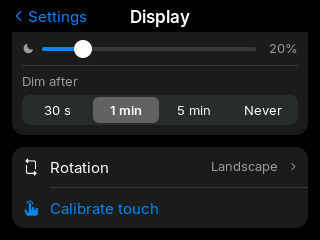
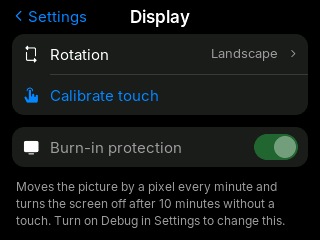
P24: docs sweep; fenix erase; capture and serial tools read without timeouts

diff --git a/crates/fenix-cli/src/main.rs b/crates/fenix-cli/src/main.rs
@@ -5,14 +5,19 @@
 //! fenix logs [secs]                print LOG / STATS / BOARD_STATE (default 30 s)
 //! fenix time                       send TIME_SET (now, UTC)
 //! fenix reboot                     ask the board to restart
+//! fenix tap <x> <y>                remote touch (screen coordinates)
+//! fenix swipe <x1> <y1> <x2> <y2>  remote drag
 //! fenix shot <out.png> [secs]      stream the screen for a while, save the last frame
+//! fenix bench [secs] [nostream]    link throughput
 //! fenix list                       installed apps
-//! fenix install <file.fxp> <id> <version>   push a board package
+//! fenix install <file.fxp>         push a board package
 //! fenix remove <id>                remove an app
-//! fenix open <id> | close          (debug) ask nothing; apps open on the board
+//! fenix set <file.fxp> <bind>=<value>...   set bindings like an app's PC half
+//! fenix host <id> on|off           tell the board an app's PC half runs or stopped
 //! fenix soak <minutes>             ping + stats soak, counts errors and reconnects
 //! fenix flash [dir] [--erase]      write the bundled firmware (default app/src-tauri/resources/
 //!                                  firmware, from tools/bundle_firmware.py); quit the app first
+//! fenix erase <offset> <size>      erase a flash region (0x9000 0x6000: settings); quit the app
 //! Common option: --port COMx (default: auto-detect).
 
 use std::path::Path;
@@ -98,13 +103,17 @@ fn main() {
         },
         "soak" => soak(opts, arg_u64(&args, 1, 60)),
         "flash" => flash(opts, &args[1..]),
+        "erase" => match (args.get(1).and_then(|v| num(v)), args.get(2).and_then(|v| num(v))) {
+            (Some(off), Some(size)) => erase(opts, off, size),
+            _ => usage(),
+        },
         _ => usage(),
     };
     std::process::exit(code);
 }
 
 fn usage() -> i32 {
-    eprintln!("usage: fenix ports|hello|logs [s]|time|reboot|tap <x> <y>|swipe <x1> <y1> <x2> <y2>|shot <png> [s]|bench [s] [nostream]|list|install <file.fxp>|remove <id>|set <file.fxp> <bind>=<value>...|host <id> on|off|soak <min>|flash [dir] [--erase] [--port COMx]");
+    eprintln!("usage: fenix ports|hello|logs [s]|time|reboot|tap <x> <y>|swipe <x1> <y1> <x2> <y2>|shot <png> [s]|bench [s] [nostream]|list|install <file.fxp>|remove <id>|set <file.fxp> <bind>=<value>...|host <id> on|off|soak <min>|flash [dir] [--erase]|erase <offset> <size> [--port COMx]");
     2
 }
 
@@ -116,10 +125,7 @@ fn flash(opts: LinkOptions, args: &[String]) -> i32 {
         .iter()
         .find(|a| !a.starts_with("--"))
         .map_or_else(|| Path::new("app/src-tauri/resources/firmware").to_path_buf(), Into::into);
-    let Some(port) = opts
-        .port
-        .or_else(|| fenix_link::find_board_ports().into_iter().next())
-    else {
+    let Some(port) = board_port(&opts) else {
         eprintln!("no board found (use --port COMx)");
         return 1;
     };
@@ -142,6 +148,37 @@ fn flash(opts: LinkOptions, args: &[String]) -> i32 {
     match r {
         Ok(()) => {
             println!("done; the board restarts");
+            0
+        }
+        Err(e) => {
+            eprintln!("{e}");
+            1
+        }
+    }
+}
+
+/// A number in decimal or 0x hex.
+fn num(s: &str) -> Option<u32> {
+    match s.strip_prefix("0x") {
+        Some(h) => u32::from_str_radix(h, 16).ok(),
+        None => s.parse().ok(),
+    }
+}
+
+fn board_port(opts: &LinkOptions) -> Option<String> {
+    opts.port
+        .clone()
+        .or_else(|| fenix_link::find_board_ports().into_iter().next())
+}
+
+fn erase(opts: LinkOptions, offset: u32, size: u32) -> i32 {
+    let Some(port) = board_port(&opts) else {
+        eprintln!("no board found (use --port COMx)");
+        return 1;
+    };
+    match fenix_flash::erase(&port, offset, size) {
+        Ok(()) => {
+            println!("erased {size:#x} bytes at {offset:#x}; the board restarts");
             0
         }
         Err(e) => {

diff --git a/tools/spike_s3_baud.py b/tools/spike_s3_baud.py
@@ -12,7 +12,23 @@ SECS = float(sys.argv[1]) if len(sys.argv) > 1 else 180
 BAUDS = [460800, 921600, 1500000, 2000000]
 
 s = serial.Serial()
-s.port, s.baudrate, s.timeout = "COM9", 460800, 0.5
+# Timeout 0: reads never wait in the driver, `read` below polls instead. A read timeout takes the
+# CH340 driver's crash path (docs/board-info.md, P23).
+s.port, s.baudrate, s.timeout = "COM9", 460800, 0
+
+
+def read(n, wait=0.5, until=None):
+    out = b""
+    end = time.time() + wait
+    while len(out) < n and time.time() < end and not (until and out.endswith(until)):
+        b = s.read(n - len(out))
+        if b:
+            out += b
+        else:
+            time.sleep(0.002)
+    return out
+
+
 s.dtr = False
 s.rts = False
 s.open()
@@ -23,7 +39,7 @@ for baud in BAUDS:
     if baud != cur:
         s.write(f"BAUD {baud}\n".encode())
         s.flush()
-        ok = s.read_until(b"OK\n", 16)
+        ok = read(16, until=b"OK\n")
         time.sleep(0.05)
         s.baudrate = baud
         cur = baud
@@ -38,7 +54,7 @@ for baud in BAUDS:
         body = os.urandom(996)
         blk = body + zlib.crc32(body).to_bytes(4, "little")
         s.write(blk)
-        got = s.read(1000)
+        got = read(1000)
         if len(got) == 1000 and zlib.crc32(got[:996]).to_bytes(4, "little") == got[996:]:
             good += 1
         else:

diff --git a/tools/serial_read.py b/tools/serial_read.py
@@ -3,6 +3,8 @@
 Usage: python tools/serial_read.py [seconds] [--reset] [--port COM9] [--baud 115200]
 --reset pulses EN through RTS (the CYD auto-reset circuit) before reading.
 The port is opened with DTR and RTS released, so opening alone does not reset the board.
+Reads never wait (timeout 0) and the loop polls: a read timeout takes the CH340 driver's crash
+path (docs/board-info.md, P23).
 """
 import argparse, sys, time
 
@@ -16,7 +18,7 @@ ap.add_argument("--baud", type=int, default=115200)
 a = ap.parse_args()
 
 s = serial.Serial()
-s.port, s.baudrate, s.timeout = a.port, a.baud, 0.2
+s.port, s.baudrate, s.timeout = a.port, a.baud, 0
 s.dtr = False
 s.rts = False
 s.open()
@@ -30,4 +32,6 @@ while time.time() < end:
     if data:
         sys.stdout.write(data.decode("utf-8", "replace"))
         sys.stdout.flush()
+    else:
+        time.sleep(0.01)
 s.close()

diff --git a/crates/fenix-flash/src/lib.rs b/crates/fenix-flash/src/lib.rs
@@ -222,6 +222,18 @@ fn hex(b: &[u8]) -> String {
     b.iter().map(|x| format!("{x:02x}")).collect()
 }
 
+/// Erase `size` bytes at `offset` (e.g. the settings partition), then reset the board.
+pub fn erase(port: &str, offset: u32, size: u32) -> Result<(), String> {
+    let mut flasher = connect(port)?;
+    flasher
+        .erase_region(offset, size)
+        .map_err(|e| format!("erasing failed: {e}"))?;
+    flasher
+        .connection()
+        .reset_after(true, Chip::Esp32)
+        .map_err(|e| format!("reset failed: {e}"))
+}
+
 // espflash wants segment lengths in whole 4-byte words.
 fn padded(d: &[u8]) -> Vec<u8> {
     let mut v = d.to_vec();

diff --git a/docs/toolchain.md b/docs/toolchain.md
@@ -12,7 +12,7 @@ Tools installed on 2026-10-28 (Windows 11); libraries pinned for fenixOS on 2026
 | Rust | 1.99.1 | rustup, MSVC target |
 | Node / pnpm | 24.13.1 / 12.15.0 | pnpm via `npm i -g pnpm` |
 | MSVC | VS 2022 Build Tools | C++ protocol host test, board simulator |
-| esptool | 5.6.0 | pip (system Python 3.14), for reads/backups |
+| esptool | 5.6.0 | pip (system Python 3.14), for reads/backups only: its read timeouts take the CH340 driver's crash path (P23); flash and erase with `fenix flash` / `fenix erase` |
 | Python | 3.14 | `tools/*.py` |
 
 ## Pinned libraries
@@ -40,13 +40,13 @@ Tools installed on 2026-10-28 (Windows 11); libraries pinned for fenixOS on 2026
 - Firmware: `pwsh -NoProfile -File board/idf.ps1 build` (also `monitor`, `size`; not `flash`, see below). First time: `idf.ps1 set-target esp32`.
 - Rust tests: `cargo test --workspace`
 - C++ protocol test (MSVC): `pwsh -NoProfile -File board/components/fenix_proto/test/run.ps1` (checks `proto/vectors.txt`)
-- Spikes: `pwsh -NoProfile -File board/idf.ps1 -C spikes/<name> -B spikes/<name>/build -p COM9 -b 460800 build flash`, then `python tools/serial_read.py 30 --reset`
+- Spikes: `pwsh -NoProfile -File board/idf.ps1 -C spikes/<name> -B spikes/<name>/build -p COM9 -b 460800 build flash`, then `python tools/serial_read.py 30 --reset` (reads without a timeout since P23). Spike flashing still runs esptool, the CH340 crash path: only when a spike is really needed
 - Board fonts: `python tools/gen_fonts.py` (Inter + Phosphor via `lv_font_conv`)
 - Version check / sync: `python tools/version.py --check` / `python tools/version.py`
 - Design tokens: `python tools/gen_tokens.py` (writes `board/components/fenix_ui/include/fenix_tokens.h` and `app/src/lib/tokens.css`; `--check` in CI)
 - Firmware to the board: build, then `python tools/bundle_firmware.py`, quit the app, then `cargo run -q -p fenix-cli --release -- flash` (or `target/release/fenix.exe flash`). Corrected (P23): `idf.ps1 flash` runs esptool, whose read timeouts take the CH340 driver's crash path (`docs/board-info.md`); `fenix flash` uses the app's flasher (espflash on the patched serialport), writes only changed regions and resets the board. `--erase` wipes the whole flash first (settings and apps too). Spikes still flash with `idf.ps1` (their own images)
 - Dev CLI (`cargo build -p fenix-cli`, then `target/debug/fenix.exe`): `ports`, `hello`, `logs [s]`, `time`, `reboot`, `tap <x> <y>`, `swipe <x1> <y1> <x2> <y2>`, `shot <png> [s]`, `bench [s] [nostream]` (slide fps, stream throughput), `list`, `install`, `remove`, `soak <min>`; `--port COMx`
-- Board screenshots: `bash tools/capture_screens.sh <dir>` erases the board's settings (NVS), installs `tools/sample-app`, taps through every system screen and the sample app, saves PNGs, and removes the sample again. Golden copies: `docs/screens/board/`
+- Board screenshots: `bash tools/capture_screens.sh <dir>` (PC app closed) erases the board's settings (NVS, with `fenix erase`; touch calibration goes too), installs `tools/sample-app`, taps through every system screen and the sample app, saves PNGs, and removes the sample again. Golden copies: `docs/screens/board/`
 - Board simulator (`board/sim`, no board needed): the real `fenix_ui` + `fenix_apps` + `fenix_pkg` code and LVGL 9.5.0 built for Windows with MSVC, on stub IDF headers, `fx::hal` on a framebuffer and `fx::sys` with settings in memory, a clock fixed at Thursday 2026-10-29 08:35 (plus virtual time) and an app store in a folder of `.fxp` files. LVGL gets the board's own Kconfig values from `board/sim/lv_kconfig.h` (`python tools/sim_config.py` after a firmware build; `--check` runs in the board CI job). Time is virtual: it moves only when the script waits or the code calls `vTaskDelay`, so every run gives the same pixels.
   - Build: `pwsh board/sim/build.ps1` (vcvars64 + CMake + Ninja; output `board/sim/build/fenix_sim.exe`). LVGL comes from `board/managed_components` after a firmware build, else CMake fetches tag v9.5.0
   - Headless: `fenix_sim run <script> --out <dir> [--store <dir>]`. Script verbs (one per line, `#` comments): `tap x y`, `swipe x1 y1 x2 y2`, `wait ms`, `shot name`, `install file.fxp`, `remove id`, `set id name=value...`, `host id on|off`, `stream on fps|off`, `connect`, `disconnect`. Taps and swipes match `fenix tap`/`swipe` timing. It starts connected, with default settings and an empty store

diff --git a/README.md b/README.md
@@ -2,11 +2,11 @@
 
 A small operating system for the ESP32-2432S028R ("Cheap Yellow Display", 2.8" 320×240 touch screen), plus its companion app for Windows. Both share one version number.
 
-- **Board:** C++17 on ESP-IDF v5.5.5, LVGL 9 + LovyanGFX. Boot screen, a home screen with time and date, three system apps (Settings, Session, Stream), and apps installed from the PC.
+- **Board:** C++17 on ESP-IDF v5.5.5, LVGL 9 + LovyanGFX. Boot screen, a home screen with time and date, three system apps (Settings, Session, Stream), apps installed from the PC, and burn-in protection for the LCD.
 - **PC app:** Rust + Tauri 2 + Svelte 5. Lives in the tray, finds the board over USB, installs and switches apps, mirrors the board's screen, keeps the board's firmware and time in step.
 - **Design:** Apple-style dark theme (`DESIGN.md`), Inter and Phosphor icons.
 
-Status: **v0.1.0.** Plan: `docs/PLAN.md`; progress: `tasks.md`.
+Status: **v0.1.3.** Plan: `docs/PLAN.md`; progress: `tasks.md`.
 
 <p>
   <img src="docs/screens/board/home.png" width="320" alt="Home screen with the time, date and app tiles">
@@ -17,7 +17,7 @@ Status: **v0.1.0.** Plan: `docs/PLAN.md`; progress: `tasks.md`.
 ## Install
 
 1. Download `fenixOS_<version>_x64-setup.exe` from the [latest release](https://github.com/tariqaq/fenixOS/releases/latest) and run it. It installs for your user only, so Windows does not ask for admin rights.
-2. The board's USB chip is a CH340. Windows usually installs its driver by itself; if the board does not show up as a COM port, install WCH's CH341SER driver. Use a current CH341SER. Both the 2011 driver and the current one (4.0.2026.2) can crash Windows when a program reads the port with a timeout; fenixOS after v0.1.0 reads without one. Do not use fenixOS v0.1.0 on Windows.
+2. The board's USB chip is a CH340. Windows usually installs its driver by itself; if the board does not show up as a COM port, install WCH's CH341SER driver. Use a current CH341SER. Both the 2011 driver and the current one (4.0.2026.2) can crash Windows when a program reads the port with a timeout. fenixOS reads without one since v0.1.1, and flashes the board without one since v0.1.4. Do not use fenixOS v0.1.0 on Windows, and avoid other serial tools (terminals, monitors, esptool) on this board.
 3. Start fenixOS. On the first run a welcome window asks you to plug in the board. A board without fenixOS gets it installed after one confirm (this erases what was on it); a board on an older fenixOS is offered the update. Then the dashboard opens.
 
 fenixOS lives in the tray and starts with Windows if you leave that on (Settings). It keeps the board's clock and firmware in step, and updates itself from the GitHub releases (Settings > Updates).
@@ -48,17 +48,14 @@ Versions and every command are in `docs/toolchain.md`. In short:
 | `VERSION` | The only version source (lockstep SemVer) |
 | `board/` | ESP-IDF firmware project |
 | `app/` | Tauri + Svelte PC app |
-| `crates/` | Shared Rust crates (protocol, link, packages, SDK, dev CLI) |
+| `crates/` | Shared Rust crates (protocol, link, packages, SDK, flasher, dev CLI) |
+| `third_party/` | serialport, patched so reads never arm the CH340 driver's crashing timeout |
 | `proto/` | Link protocol spec and test vectors |
 | `registry/` | Manifests of installable apps (each app lives in its own repo) |
 | `design/` | Design tokens and font sources |
 | `tools/` | Generators and helper scripts |
 | `docs/` | Plan, decisions, hardware facts, toolchain; `docs/legacy/` holds the FenixDeck PoC docs |
 | `pics/` | Board photos and their analysis |
-
-## Build
-
-See `docs/toolchain.md` for versions and commands. Clone with submodules: `git clone --recursive https://github.com/tariqaq/fenixOS`.
 
 ## Licence
 

diff --git a/ideas.md b/ideas.md
@@ -117,7 +117,7 @@ These come from the hardware facts in `docs/POC-WRITEUP.md` and from research. T
   - Declarative packages: layout, assets and bindings that the firmware's UI engine renders, with the logic on the PC. Smallest and safest.
   - A small script VM: Berry starts at ~4–10 KB RAM and is used on the ESP32 by Tasmota. Lua and wasm3 are heavier, MicroPython heavier still.
   - Native ELF loading: Espressif's `elf_loader` component. The code runs from scarce internal RAM, so it is the most complex option.
-- **C4. "Shut down" can't cut power.** The board has no power switch, and USB keeps it powered. Shut down = backlight off + deep sleep, woken by a touch (touch IRQ on GPIO36 can wake from deep sleep) or by the RST button. Reboot = software restart.
+- **C4. "Shut down" can't cut power.** The board has no power switch, and USB keeps it powered. Shut down = backlight off + deep sleep (corrected, P19: light sleep, see `docs/board-info.md`), woken by a touch (touch IRQ on GPIO36 can wake from deep sleep) or by the RST button. Reboot = software restart.
 - **C5. No vsync.** The LCD's TE pin is not wired, so tearing can only be minimized: partial redraws by DMA and capped fps. A full-screen push takes ~22 ms (about 45 fps max). Full-screen effects such as cross-fades redraw the whole screen, so they run slower than small animations.
 - **C6. Apple's fonts and SF Symbols can't be used.** Apple's license limits SF fonts to Apple platforms. It does not allow embedding them in a non-Apple app or firmware, nor even mock-ups of software for non-Apple systems. Use **Inter** (Google Fonts, OFL, designed in a similar spirit to SF Pro) or a similar open font. Icons need an open set too (for example Lucide, Phosphor, Material Symbols Rounded).
 - **C7. Private repo vs. central registry** (resolved: the repo is now public). This repo was private, so the PC app cannot read the registry from it without a GitHub token. Options: a token in the PC app, a separate public registry repo, or making this repo public.
@@ -153,7 +153,7 @@ Details and the options offered: `docs/decisions.md`.
 - Navigation: iOS-style **top nav bar** (`< Home`, centred title).
 - Time (C1): **PC sync on connect** + hourly, **kept in RTC memory across soft reboot / deep sleep**, Wi-Fi NTP later; no manual set. `--:--` until the first sync after power-up.
 - Stream (C2): **changed regions, compressed** (LVGL flush rects, RLE/LZ); ~10 fps in normal use.
-- Shut down (C4): **deep sleep, tap to wake** (touch IRQ GPIO36) or RST.
+- Shut down (C4): **deep sleep, tap to wake** (touch IRQ GPIO36) or RST. Corrected (P19): light sleep, then a restart on the tap.
 - PC app: **Rust + Tauri 2 + Svelte 5**.
 - PC half of host apps (C10): **sidecar process** per app, started only while switched on, local pipe + typed API; trust via registry, pinned versions, checksums.
 - Registry (C7): **this repo is public**; the PC app reads the registry with no auth. Vendor files, flash images and the packing slip were scrubbed from history first.

diff --git a/tasks.md b/tasks.md
@@ -1,6 +1,6 @@
 # fenixOS tasks
 
-New project: an "OS of sorts" for the ESP32-2432S028R (CYD). Hand-over from the FenixDeck PoC is in `docs/POC-WRITEUP.md`. No code yet: the user decides what to build.
+fenixOS: an "OS of sorts" for the ESP32-2432S028R (CYD) and its Windows app. Plan: `docs/PLAN.md`; hand-over from the FenixDeck PoC: `docs/POC-WRITEUP.md`. Phases below, newest last.
 
 Legend: `[x]` done, `[~]` in progress, `[!]` blocked, `[ ]` to do.
 
@@ -212,7 +212,15 @@ Unattended-run rules (user, 2026-10-29; details in `docs/decisions.md`): one UAC
   - [x] 3. Move the flasher into crate `fenix-flash` (app and CLI share it); `fenix flash [dir] [--erase]` replaces `idf.ps1 flash` for this board
   - [x] 4. Tests: cargo test ok, licenses check (tools/licenses.py keeps patched third_party crates), `fenix flash`: unchanged image 8 s (all regions skipped), two forced full writes 22 s each, board booted v0.1.3 both times. App built with the patch (4-core cap, 32 s) and installed (`/S` from PowerShell, exit 0); its Reinstall firmware runs the same `fenix-flash` code, not clicked through in the app
   - [x] 5. Docs: board-info, toolchain (flash command, cache), README, PLAN, decisions, licenses list. Also CI: release cache shared from main (`shared-key: app`)
-- [ ] P24 Full docs sweep (user 2026-10-30): every `*.md`, code comments, CLI help, references checked against the code; fix stale text
+- [x] P24 Full docs sweep (user 2026-10-30): every `*.md`, code comments, CLI help, references checked against the code; fix stale text. Found and fixed:
+  - README: status v0.1.0, duplicate Build section, driver note (flashing), board bullet, repo layout (`third_party/`, flasher)
+  - PLAN: status line, link read timeout (P16), deep sleep (P19) in two places; ideas.md: Shut down (P19); tasks.md header ("No code yet"); mockups: P21 rows; toolchain: esptool only for reads
+  - `fenix` CLI help listed `open`/`close` (no such commands) and missed tap, swipe, bench, set, host; `install` takes only the file
+  - P23 follow-ups: `tools/capture_screens.sh` erased settings with esptool (crash path): now `fenix erase` (new); `tools/serial_read.py` and `tools/spike_s3_baud.py` read with pyserial timeouts: now timeout 0 and polling
+  - `docs/screens/board/display_scrolled.png` (no burn-in row) and `about.png` (old version) recaptured from the board with `fenix tap`/`shot` (not the capture script: it erases settings and calibration)
+  - Checked, no change: `docs/packages.md` (element kinds, icon sizes), `docs/sidecars.md` (messages), `proto/spec.md`, DESIGN.md, `docs/legacy/` and `docs/POC-WRITEUP.md` (historical, kept as written)
+
+- [ ] P25 Release v0.1.4: P23 crash-safe flashing in the app. Wait for CI on main (its rust job saves the shared `app` cache for the first time), then VERSION 0.1.4 and tag, so the release run shows whether it now builds warm
 
 ## Decisions
 

diff --git a/docs/PLAN.md b/docs/PLAN.md
@@ -1,6 +1,6 @@
 # fenixOS v0.1 build plan
 
-Status: **done; v0.1.0 released 2026-10-29.** Follow-ups after the release (P11 3D board screen to P17 PC motion, P16 the CH340 crash fix; v0.1.1) are in `tasks.md`, which mirrors the phases below.
+Status: **done; v0.1.0 released 2026-10-29, now v0.1.3.** Follow-ups after the release (P11 to P24: 3D board screen, CH340 crash fixes P16 and P23, stream sync, PC motion, sleep LED, burn-in protection) are in `tasks.md`, which mirrors the phases below.
 
 Sources of truth, in order:
 1. The mock-up canvas (https://claude.ai/artifact/4iSeRZ1tZLgcRxiS42vYji, list in `docs/mockups.md`). The user approved it on 2026-10-29: "follow it exactly as it is". Every screen is built to match its artboard.
@@ -113,7 +113,7 @@ docs/, pics/
 - **Clock:**
   - Sources: `TIME_SET` from the PC, on connect and hourly.
   - `TZ=MYT-8`.
-  - System time survives `esp_restart` and deep sleep. A "time valid" magic word in RTC no-init memory tells a real power-on (show `--:--`) from a soft reboot.
+  - System time survives `esp_restart` and sleep. A "time valid" magic word in RTC no-init memory tells a real power-on (show `--:--`) from a soft reboot.
 - **Backlight:**
   - LEDC PWM on GPIO21.
   - After the dim delay with no touch, it fades to the dim level.
@@ -186,7 +186,7 @@ docs/, pics/
 - **Link manager:**
   - Scans CH340 ports (VID 0x1A86, PID 0x7523) and does the `HELLO` handshake.
   - Reconnects, reconciles apps, sends time sync on connect and hourly.
-  - Single-thread serial I/O: batch write, then read with a 15 ms timeout (PoC gotcha).
+  - Single-thread serial I/O: batch write, then read. Corrected (P16): reads never wait (COMMTIMEOUTS `MAXDWORD, 0, 0`) and the link polls every 2 to 10 ms; a read timeout crashes the CH340 driver (`docs/board-info.md`).
   - Background scanning never resets a board.
 - **App manager:**
   - Installed apps in `%LOCALAPPDATA%\fenixOS\apps\<id>\<version>\`.
@@ -384,7 +384,7 @@ Accept: the board boots to the boot screen ≤ 1 s, then talks to `fenix hello`;
 1. Boot: wordmark, version, sweep line, smooth transition to Home.
 2. Home Tiles (2a), Dock (2b), portrait (2c), no time (2d); style switch live from Settings.
 3. Settings tree: Display, Home screen, Storage, Host PC, About (3, 3a, 3b + the P2 page).
-4. Session sheet (4): Shut down (fade, deep sleep, tap wake), Restart.
+4. Session sheet (4): Shut down (fade, sleep, tap wake; light sleep since P19), Restart.
 5. Stream (5a, 5b) and the stream encoder (§3.3).
 6. Motion per `DESIGN.md`: app open scale and fade, nav slide, sheet, tile fade.
 7. LED states; backlight auto-dim.

diff --git a/docs/mockups.md b/docs/mockups.md
@@ -16,8 +16,8 @@ Status: approved by the user on 2026-10-29 ("follow it exactly as it is"), with 
 | 2b | HomeB | Home, landscape: clock + date, icon dock (second style, picked in Settings › Home screen) |
 | 2c | HomePortrait | Home, portrait 240×320 |
 | 2d | HomeNoTime | Home before the first PC time sync (`--:--`) |
-| 3 | Settings | Settings list: Display, Home screen (Tiles / Dock), Storage, Host PC, About |
-| 3a | SettingsDisplay | Brightness, auto-dim level, dim after, rotation, calibrate touch |
+| 3 | Settings | Settings list: Display, Home screen (Tiles / Dock), Storage, Host PC, About (P21 added a Debug switch at the end, no artboard) |
+| 3a | SettingsDisplay | Brightness, auto-dim level, dim after, rotation, calibrate touch (P21 added a Burn-in protection switch below them, no artboard) |
 | 3b | SettingsAbout | Board, chip, CPU, memory free, flash, display |
 | 4 | Session | Shut down / Restart pop-up |
 | 5a | StreamOff | Stream app, no PC connected. Connected but not streaming: "Not streaming" with a "Start streaming" button (P14); the board is where the stream is started (P15) |
